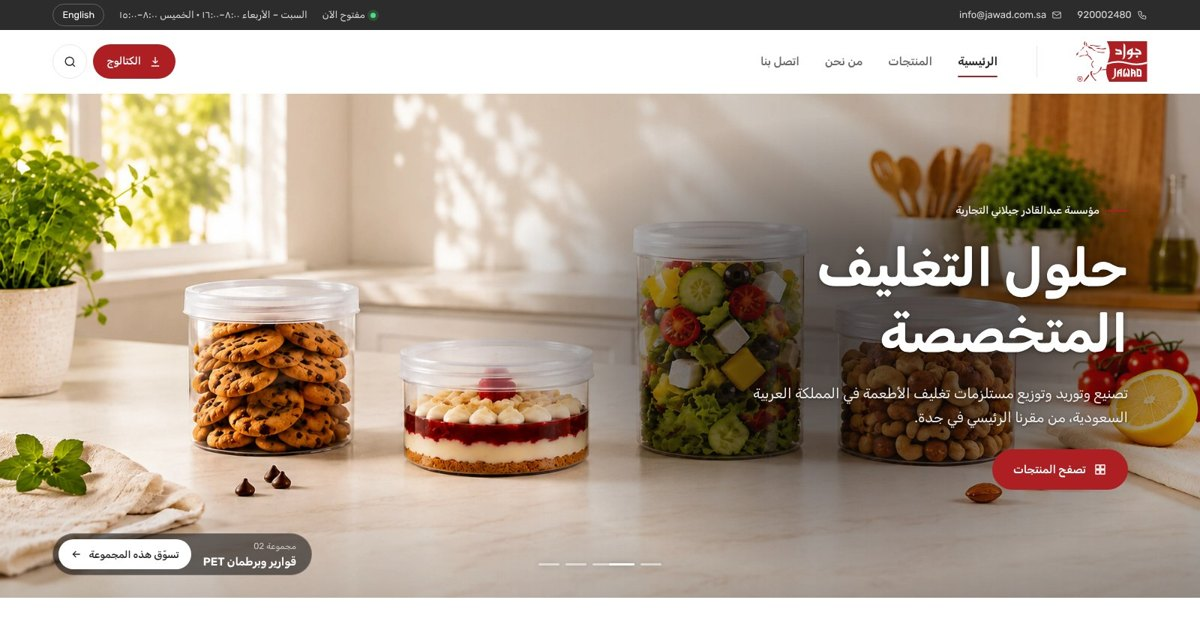
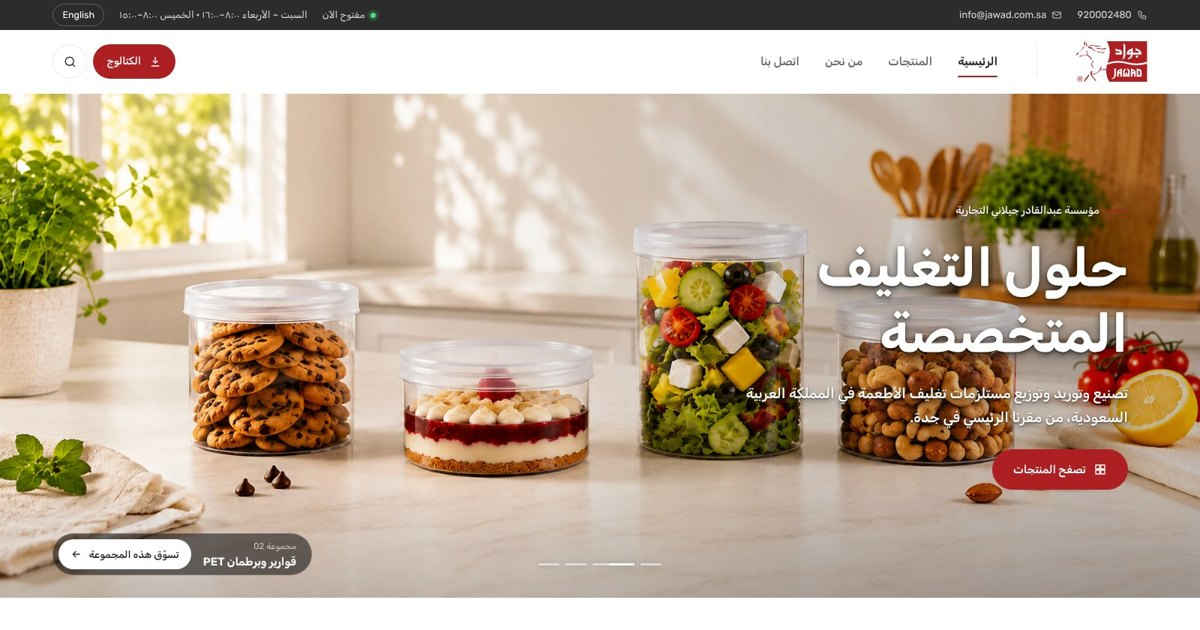
Jawad concept: shadow on the headline letters instead of a shade over the photo
Claude-Session: https://claude.ai/code/session_01XmvRQvnwC1LYVFBXAPJEqj

Changed region(s): [[0.4317, 0.2111, 1.0, 0.8746]]

diff --git a/public/jawad/index.html b/public/jawad/index.html
@@ -1021,22 +1021,20 @@ html[dir=rtl] .stage #hPrev{--nx:10px}html[dir=rtl] .stage #hNext{--px:-10px}
 .hero8{position:relative;padding:0;margin:0;background:#161414;border-radius:0;overflow:hidden;display:block;isolation:isolate}
 .hero8 .stage{aspect-ratio:3870/1626;border-radius:0;cursor:pointer}
 .hero8 .shade{position:absolute;inset:0;z-index:3;pointer-events:none;
-  background:linear-gradient(to left,rgba(14,11,11,.26) 0%,rgba(14,11,11,.16) 34%,rgba(14,11,11,0) 62%),
+  background:linear-gradient(to left,rgba(14,11,11,.22) 0%,rgba(14,11,11,.12) 36%,rgba(14,11,11,0) 60%),
              linear-gradient(to top,rgba(14,11,11,.18) 0%,rgba(14,11,11,0) 22%)}
-html[dir=ltr] .hero8 .shade{background:linear-gradient(to right,rgba(14,11,11,.26) 0%,rgba(14,11,11,.16) 34%,rgba(14,11,11,0) 62%),
+html[dir=ltr] .hero8 .shade{background:linear-gradient(to right,rgba(14,11,11,.22) 0%,rgba(14,11,11,.12) 36%,rgba(14,11,11,0) 60%),
              linear-gradient(to top,rgba(14,11,11,.18) 0%,rgba(14,11,11,0) 22%)}
 .hx{position:absolute;inset:0;z-index:4;display:flex;align-items:center;pointer-events:none}
 .hx .wrap{width:100%;padding-inline-start:max(var(--gut),96px)}
-.hx-in{max-width:min(720px,52%);display:grid;justify-items:start;gap:clamp(12px,1.4vw,20px);color:#fff;pointer-events:auto;text-shadow:0 1px 3px rgba(0,0,0,.35),0 2px 14px rgba(0,0,0,.3);position:relative;isolation:isolate}
-/* a soft dark glow sits only behind the words, so the photo around them stays clear */
-.hx-in::before{content:"";position:absolute;z-index:-1;inset:-30% -22% -30% -22%;border-radius:50%;background:radial-gradient(closest-side,rgba(14,11,11,.66),rgba(14,11,11,.52) 45%,rgba(14,11,11,.22) 75%,rgba(14,11,11,0));pointer-events:none}
+.hx-in{max-width:min(720px,52%);display:grid;justify-items:start;gap:clamp(12px,1.4vw,20px);color:#fff;pointer-events:auto;text-shadow:0 1px 2px rgba(0,0,0,.55),0 3px 10px rgba(0,0,0,.5),0 8px 30px rgba(0,0,0,.45);position:relative}
 .hx-in .btn{text-shadow:none}
 .hx-in .kicker{color:#fff;opacity:.92;gap:10px}
 .hx-in .kicker::before{content:"";width:28px;height:2px;border-radius:2px;background:var(--red);flex:none}
 .hx-in h1{color:#fff;font-size:clamp(34px,4.4vw,72px);font-weight:700;line-height:1.12;letter-spacing:-.01em;margin:0}
 html[lang=ar] .hx-in h1{line-height:1.25;letter-spacing:0}
 .hx-in h1 em{font-style:normal;color:inherit}
-.hx-in .lead{color:rgba(255,255,255,.9);max-width:520px;font-size:clamp(15px,1.2vw,19px)}
+.hx-in .lead{color:#fff;font-weight:500;max-width:520px;font-size:clamp(15px,1.2vw,19px)}
 .hx-in .btn{margin-top:6px;height:54px;padding-inline:28px}
 /* the current collection, bottom corner of the photo */
 .hcap{position:absolute;z-index:6;bottom:clamp(16px,2vw,30px);inset-inline-end:max(var(--gut),24px);pointer-events:none}
@@ -1057,7 +1055,6 @@ html[lang=ar] .hx-in h1{line-height:1.25;letter-spacing:0}
   .hx{position:static;display:block;background:#161414}
   .hx .wrap{padding-inline-start:max(var(--gut),env(safe-area-inset-left,0px));padding-block:18px 6px}
   .hx-in{max-width:none;gap:12px;text-shadow:none}
-  .hx-in::before{display:none}
   .hx-in h1{font-size:clamp(28px,8vw,36px)}
   .hx-in .lead{font-size:14.5px}
   .hx-in .btn{width:100%;height:50px}
